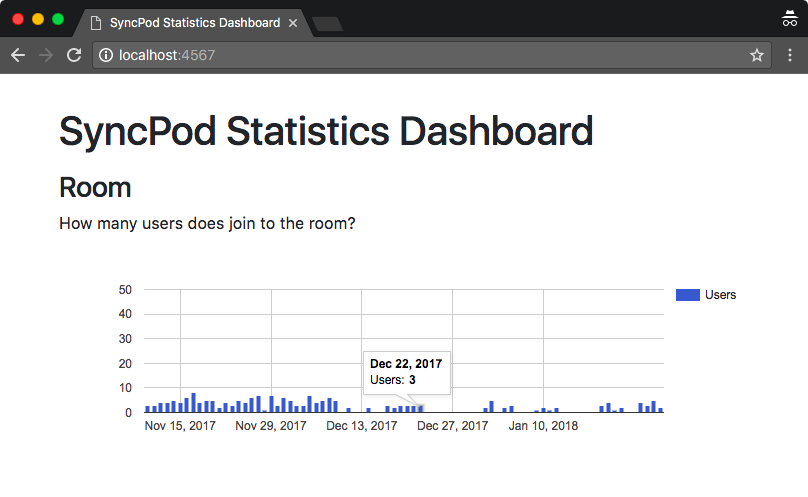
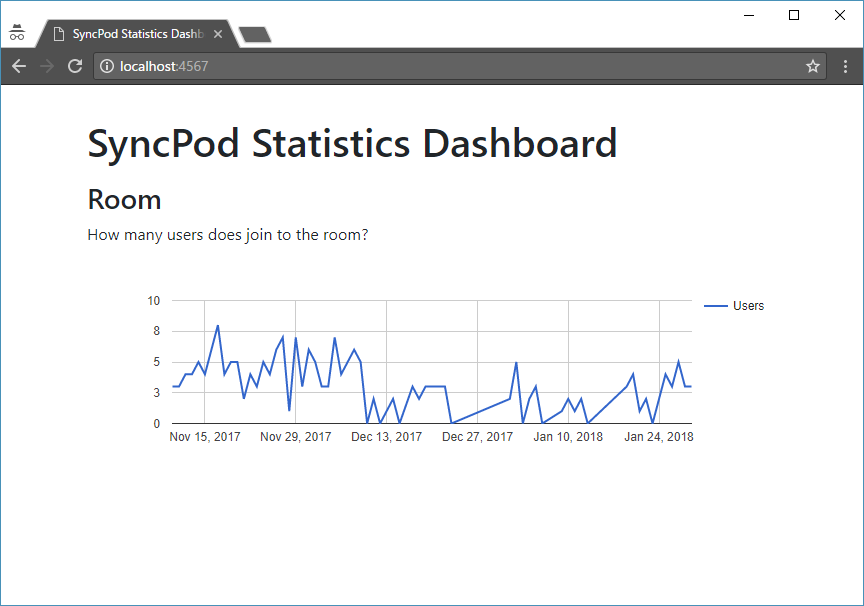
[fix] revert graph types and fix zero is not shown

diff --git a/public/index.html b/public/index.html
@@ -40,11 +40,11 @@ function drawChart() {
 	
 	var data = new google.visualization.DataTable(jsonData);
 
-	var chart = new google.visualization.ColumnChart(document.getElementById('statistics_room'));
+	var chart = new google.visualization.LineChart(document.getElementById('statistics_room'));
 	chart.draw(data, {
 		vAxis: {
 			format: '#',
-			ticks: [0, 10, 20, 30, 40, 50],
+//			ticks: [0, 10, 20, 30, 40, 50],
 			minValue: 0,
 		},
 		connectSteps: false,

diff --git a/app.rb b/app.rb
@@ -1,14 +1,13 @@
 require 'sinatra/base'
 require 'mysql2'
 require 'json'
+require 'date'
 require 'pp'
 
 require 'dotenv/load'
 
-def date2js str
-  y, m, d = str.split('-').map(&:to_i)
-  m -= 1
-  return "Date(#{[y, m, d].join(',')})"
+def date2js d
+  return "Date(#{[d.year, d.month - 1, d.day].join(',')})"
 end
 
 class App < Sinatra::Base
@@ -35,6 +34,21 @@ class App < Sinatra::Base
       ORDER BY date
     SQL
     
+    data = db.query(sql).map{|r| {date: Date.parse(r['date']), count: r['count']} }.sort_by{|e| e[:date]}
+    start_at = data.first[:date]
+    
+    result = data.inject([]) do |before, v|
+      if before.last && (b = before.last[:date])
+        if b + 1 != v[:date] # if missed point found
+          before << {
+            date: (b + 1),
+            count: 0,
+          }
+        end
+      end
+      before << v
+    end
+    
     {
       cols: [
         {
@@ -46,11 +60,11 @@ class App < Sinatra::Base
           type: 'number',
         },
       ],
-      rows: db.query(sql).map{|r|
+      rows: result.map{|r|
         {
           c: [
-            { v: date2js(r['date']) },
-            { v: r['count'] },
+            { v: date2js(r[:date]) },
+            { v: r[:count] },
           ]
         }
       }
